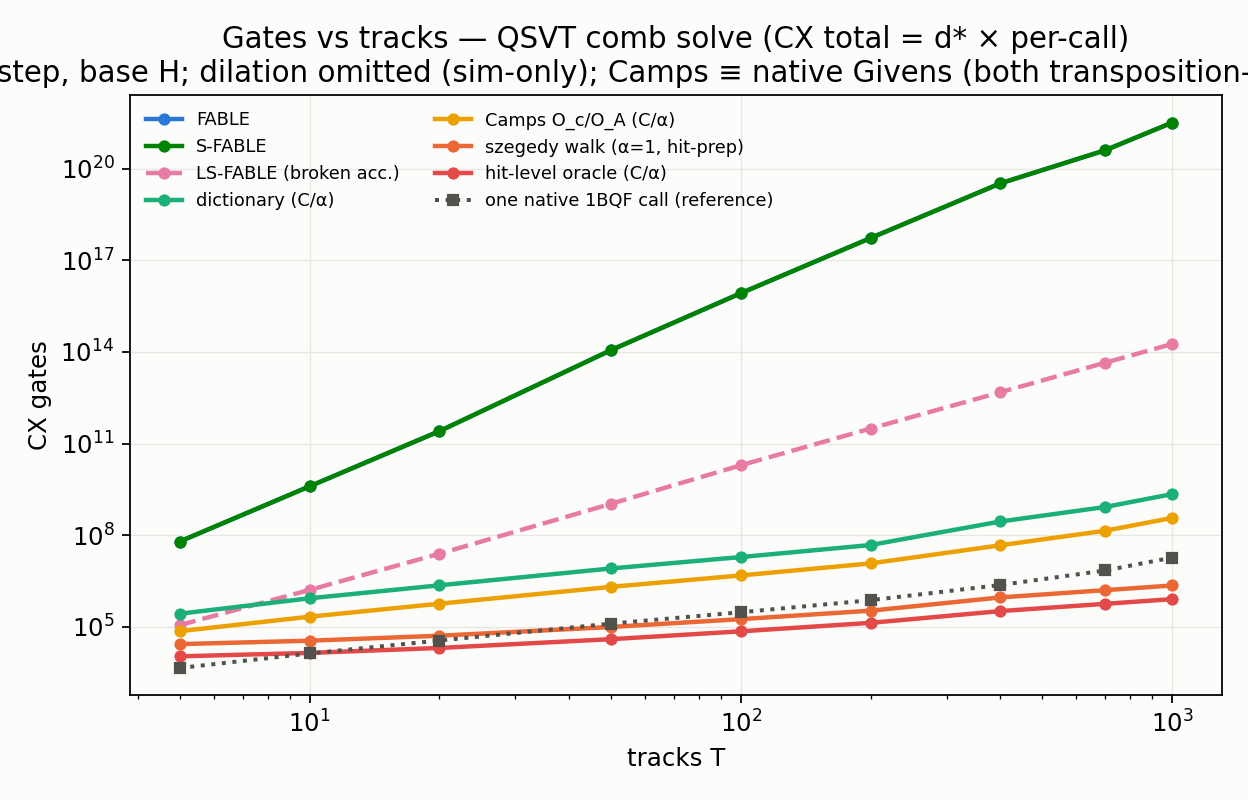
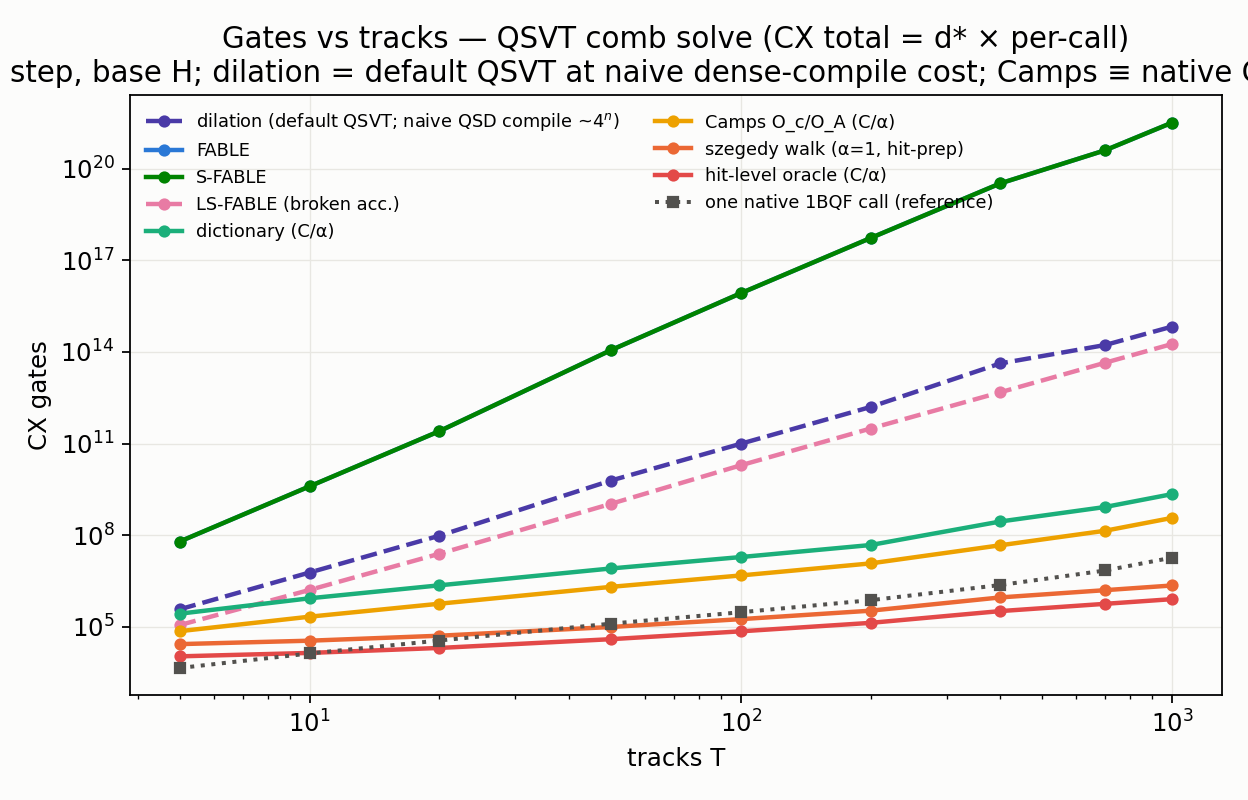
06 plots: default versions on every panel (dilation at naive QSD dense-compile cost on gates plots)

diff --git a/Block_Encoding/06_writeup_plots.py b/Block_Encoding/06_writeup_plots.py
@@ -100,7 +100,7 @@ def resource_rows():
         entries = [
             # tag,            anc,       cx/call,   d* (QSVT), sim_only
             ("native",        1,         cx_native, None,      False),
-            ("dilation",      1,         None,      d_dil,     True),
+            ("dilation",      1,         int(23 / 48 * 4 ** (n + 1)), d_dil, True),
             ("fable",         n + 1,     cx_fable,  d_fab,     False),
             ("sfable",        n + 1,     cx_fable,  d_fab,     False),
             ("lsfable",       n + 1,     cx_lsf,    d_lsf,     False),
@@ -123,7 +123,7 @@ def resource_rows():
 
 
 LABELS = dict(native="native 1BQF (Givens exp(-iAt))",
-              dilation="dilation (simulation-only)",
+              dilation="dilation (default QSVT; naive QSD compile ~4$^{n}$)",
               fable="FABLE", sfable="S-FABLE", lsfable="LS-FABLE (broken acc.)",
               camps="Camps O_c/O_A (C/α)", dictionary="dictionary (C/α)",
               hit_oracle="hit-level oracle (C/α)", szegedy="szegedy walk (α=1, hit-prep)")
@@ -169,7 +169,7 @@ def figures(df):
     # ---- 2. gates vs T --------------------------------------------------
     for algo, col_g in (("1bqf", "cx_call"), ("qsvt", "cx_qsvt")):
         fig, ax = plt.subplots(figsize=(7.8, 5.0))
-        order = ["fable", "sfable", "lsfable", "dictionary", "camps",
+        order = ["dilation", "fable", "sfable", "lsfable", "dictionary", "camps",
                  "native", "szegedy", "hit_oracle"]
         for tag in order:
             if algo == "qsvt" and tag == "native":
@@ -179,7 +179,7 @@ def figures(df):
             if not vals.notna().any():
                 continue
             c = MCOL.get(tag, "#52514e")
-            ls = "--" if tag == "lsfable" else "-"
+            ls = "--" if tag in ("lsfable", "dilation") else "-"
             mk = "s" if tag == "native" else "o"
             ax.plot(g["T"], vals, ls + mk, color=c, lw=2, ms=4.5,
                     label=LABELS[tag])
@@ -190,7 +190,7 @@ def figures(df):
         ax.set_yscale("log")
         nm = "1BQF (CX per call of the encoding)" if algo == "1bqf" else \
              "QSVT comb solve (CX total = d* × per-call)"
-        style(ax, "CX gates", f"Gates vs tracks — {nm}\nstep, base H; dilation omitted (sim-only); Camps ≡ native Givens (both transposition-priced)")
+        style(ax, "CX gates", f"Gates vs tracks — {nm}\nstep, base H; dilation = default QSVT at naive dense-compile cost; Camps ≡ native Givens")
         fig.tight_layout()
         fig.savefig(os.path.join(OUT, f"fig06_gates_vs_T_{algo}.png"), dpi=160)
         plt.close(fig)
